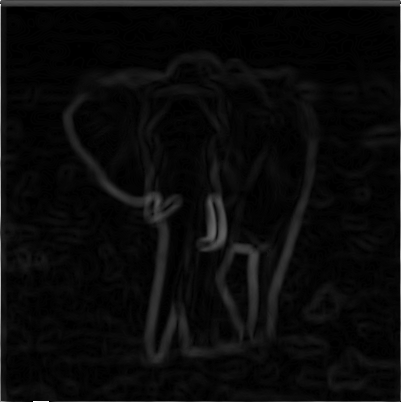
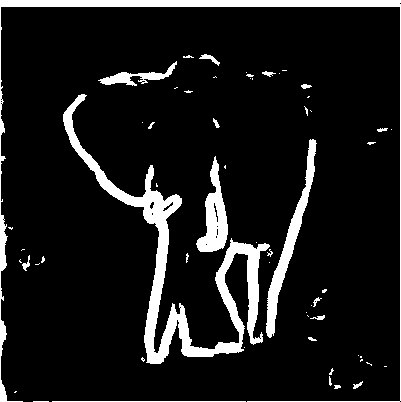
submitted version

diff --git a/scripts/assignment.py b/scripts/assignment.py
@@ -3,6 +3,7 @@ import math
 import cv2
 import numpy as np
 from matplotlib import pyplot as plt
+import os
 
 
 def contrast_stretching(filepath):
@@ -38,10 +39,10 @@ def histogram_equalization(filepath):
 			if img[row, column] not in intensitiesList:
 				intensitiesList.extend([img[row, column]])
 
-	print 'Intensities in the image: ', str(intensitiesList)
+	# print 'Intensities in the image: ', str(intensitiesList)
 	
 	intensitiesList.sort()
-	print 'Sorted intensities in the image: ', str(intensitiesList)
+	# print 'Sorted intensities in the image: ', str(intensitiesList)
 
 	for intensity in intensitiesList:
 		count = 0
@@ -57,9 +58,9 @@ def histogram_equalization(filepath):
 			cumulativeValue = cumulativeFrequencyList[len(cumulativeFrequencyList)-1] + count
 			cumulativeFrequencyList.extend([cumulativeValue])
 
-	print 'Frequencies of each intensity (Sorted intensities): ', str(frequencyList)
+	# print 'Frequencies of each intensity (Sorted intensities): ', str(frequencyList)
 
-	print 'Cumulative frequencies: ', str(cumulativeFrequencyList)
+	# print 'Cumulative frequencies: ', str(cumulativeFrequencyList)
 
 	for row in xrange(0,img.shape[0]):
 		for column in xrange(0,img.shape[1]):
@@ -82,9 +83,34 @@ def sobel_edge_detection(filepath):
 			Gyimg[row - 1, column - 1] = math.fabs(Gy)
 			new[row - 1, column - 1] = math.fabs(Gx) + math.fabs(Gy)
 
+	for row in xrange(0,new.shape[0]):
+		for column in xrange(0,new.shape[1]):
+			if new[row, column] > 30:
+				new[row, column] = 255
+			else :
+				new[row, column] = 0
+
 	cv2.imwrite('..\\results\\sobel_edge_detection.png',new)
-	cv2.imwrite('..\\results\\sobel_edge_detection_Gx.png',Gximg)
-	cv2.imwrite('..\\results\\sobel_edge_detection_Gy.png',Gyimg)
+	# cv2.imwrite('..\\results\\sobel_edge_detection_Gx.png',Gximg)
+	# cv2.imwrite('..\\results\\sobel_edge_detection_Gy.png',Gyimg)
+
+def sobel_for_canny_edge_detection(filepath):
+	img = cv2.imread(filepath, cv2.CV_LOAD_IMAGE_GRAYSCALE)
+	padded_image = cv2.copyMakeBorder(img,1,1,1,1,cv2.BORDER_CONSTANT,value = 0)
+	Gximg = img.copy()
+	Gyimg = img.copy()
+	new = img.copy()
+	for row in xrange(1,padded_image.shape[0]-1):
+		for column in xrange(1,padded_image.shape[1]-1):
+			Gx = (padded_image[row - 1, column + 1] + (2.0 * padded_image[row, column + 1]) + padded_image[row + 1, column + 1]) - (padded_image[row - 1, column - 1] + (2.0 * padded_image[row, column - 1]) + padded_image[row + 1, column - 1])
+			Gximg[row - 1, column - 1] = math.fabs(Gx)
+			Gy = (padded_image[row - 1, column - 1] + (2.0 * padded_image[row - 1, column]) + padded_image[row - 1, column + 1]) - (padded_image[row + 1, column - 1] + (2.0 * padded_image[row + 1, column]) + padded_image[row + 1, column + 1])
+			Gyimg[row - 1, column - 1] = math.fabs(Gy)
+			new[row - 1, column - 1] = math.fabs(Gx) + math.fabs(Gy)
+
+	return new
+
+	
 	
 def prewitt_edge_detection(filepath):
 	img = cv2.imread(filepath, cv2.CV_LOAD_IMAGE_GRAYSCALE)
@@ -114,6 +140,13 @@ def prewitt_edge_detection(filepath):
 			kernelList.extend([math.fabs(kernel1), math.fabs(kernel2), math.fabs(kernel3), math.fabs(kernel4), math.fabs(kernel5), math.fabs(kernel6), math.fabs(kernel7), math.fabs(kernel8)])
 			new[row - 1, column - 1] = max(kernelList)
 
+	for row in xrange(0,new.shape[0]):
+		for column in xrange(0,new.shape[1]):
+			if new[row, column] > 20:
+				new[row, column] = 255
+			else :
+				new[row, column] = 0
+
 
 	cv2.imwrite('..\\results\\prewitt_edge_detection.png',new)
 
@@ -121,7 +154,7 @@ def canny_edge_detection(filepath, t1, t2):
 	img = cv2.imread(filepath, cv2.CV_LOAD_IMAGE_GRAYSCALE)
 	padded_image = cv2.copyMakeBorder(img,2,2,2,2,cv2.BORDER_CONSTANT,value = 0)
 	gaussian = img.copy()
-	canny = img.copy()
+	
 
 	for row in xrange(2,padded_image.shape[0]-2):
 		for column in xrange(2,padded_image.shape[1]-2):
@@ -129,21 +162,35 @@ def canny_edge_detection(filepath, t1, t2):
 
 			gaussian[row - 2, column - 2] = kernel / 272
 
-	# cv2.imwrite('..\\results\\gaussian_filter.png',gaussian)
+	cv2.imwrite('..\\results\\gaussian_filter.png',gaussian)
 
-	# prewitt_edge_detection('..\\results\\gaussian_filter.png')
-	# canny = cv2.imread('..\\results\\gaussian_filter.png', cv2.CV_LOAD_IMAGE_GRAYSCALE)
+	sobel_result = sobel_for_canny_edge_detection('..\\results\\gaussian_filter.png')
+
+	canny = sobel_result.copy()
+
+	for row in xrange(0,sobel_result.shape[0]):
+		for column in xrange(0,sobel_result.shape[1]):
+			if row == 0 or row == canny.shape[0] - 1 or column == 0 or column == canny.shape[1] - 1 or canny[row, column] < t2:
+				canny[row, column] = 0
+			if sobel_result[row, column] > t1:
+					canny[row, column] = 255
+			else :
+				if sobel_result[row, column] < t2:
+					canny[row, column] = 0
+
+				
+					
 
 	for row in xrange(0,canny.shape[0]):
 		for column in xrange(0,canny.shape[1]):
-			if row == 0 or row == canny.shape[0] - 1 or column == 0 or column == canny.shape[1] - 1 or canny[row, column] < t2:
-				canny[row, column] = 0
-			else:
-				if not (canny[row - 1, column - 1] > 0 or canny[row - 1, column] > 0 or canny[row - 1, column + 1] > 0 or canny[row, column - 1] > 0 or canny[row, column + 1] > 0 or canny[row + 1, column - 1] > 0 or canny[row + 1, column] > 0 or canny[row + 1, column + 1] > 0):
+			if canny[row, column] != 0 and canny[row, column] != 255:
+				# print canny[row,column]
+				if canny[row - 1, column - 1] == 255 or canny[row - 1, column] == 255 or canny[row - 1, column + 1] == 255 or canny[row, column - 1] == 255 or canny[row, column + 1] == 255 or canny[row + 1, column - 1] == 255 or canny[row + 1, column] == 255 or canny[row + 1, column + 1] == 255 :
+					canny[row, column] = 255
+				else :
 					canny[row, column] = 0
 				
-
-	
+	os.remove("..\\results\\gaussian_filter.png")
 	cv2.imwrite('..\\results\\canny_edge_detection.png',canny)
 	
 
@@ -156,10 +203,4 @@ contrast_stretching(image1)
 histogram_equalization(image1)
 sobel_edge_detection(image2)
 prewitt_edge_detection(image2)
-canny_edge_detection(image2, 150, 75)
-
-# print 'RGB shape: ', img.shape 
-# print 'rows: ', img.shape[0]
-# print 'columns: ', img.shape[1]
-# # print 'channels: ', img1.shape[2]
-# print 'Pixel intensity: ', img[240, 240]		
+canny_edge_detection(image2, 40, 20)
